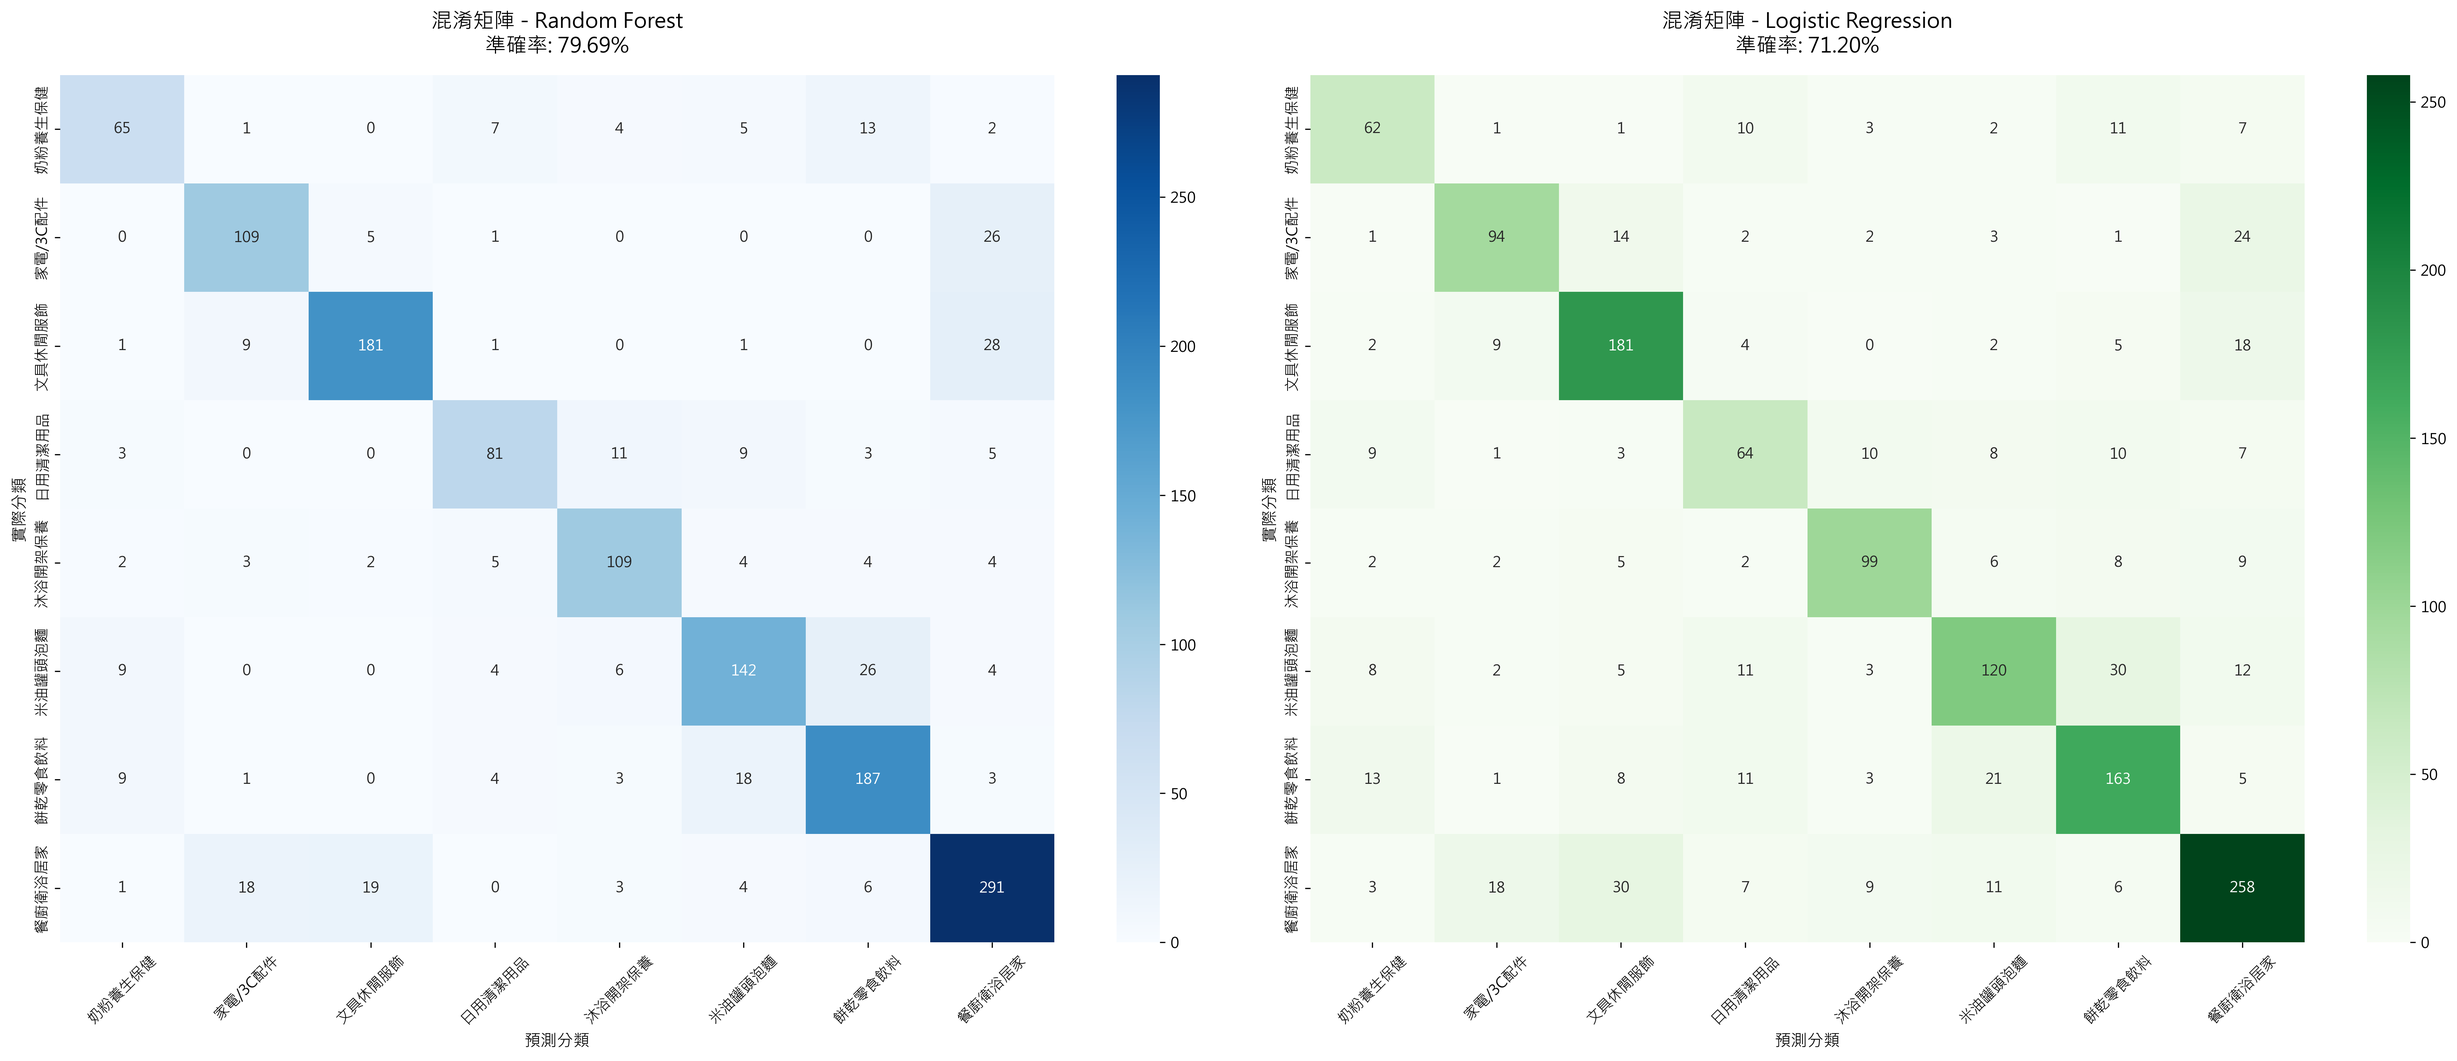
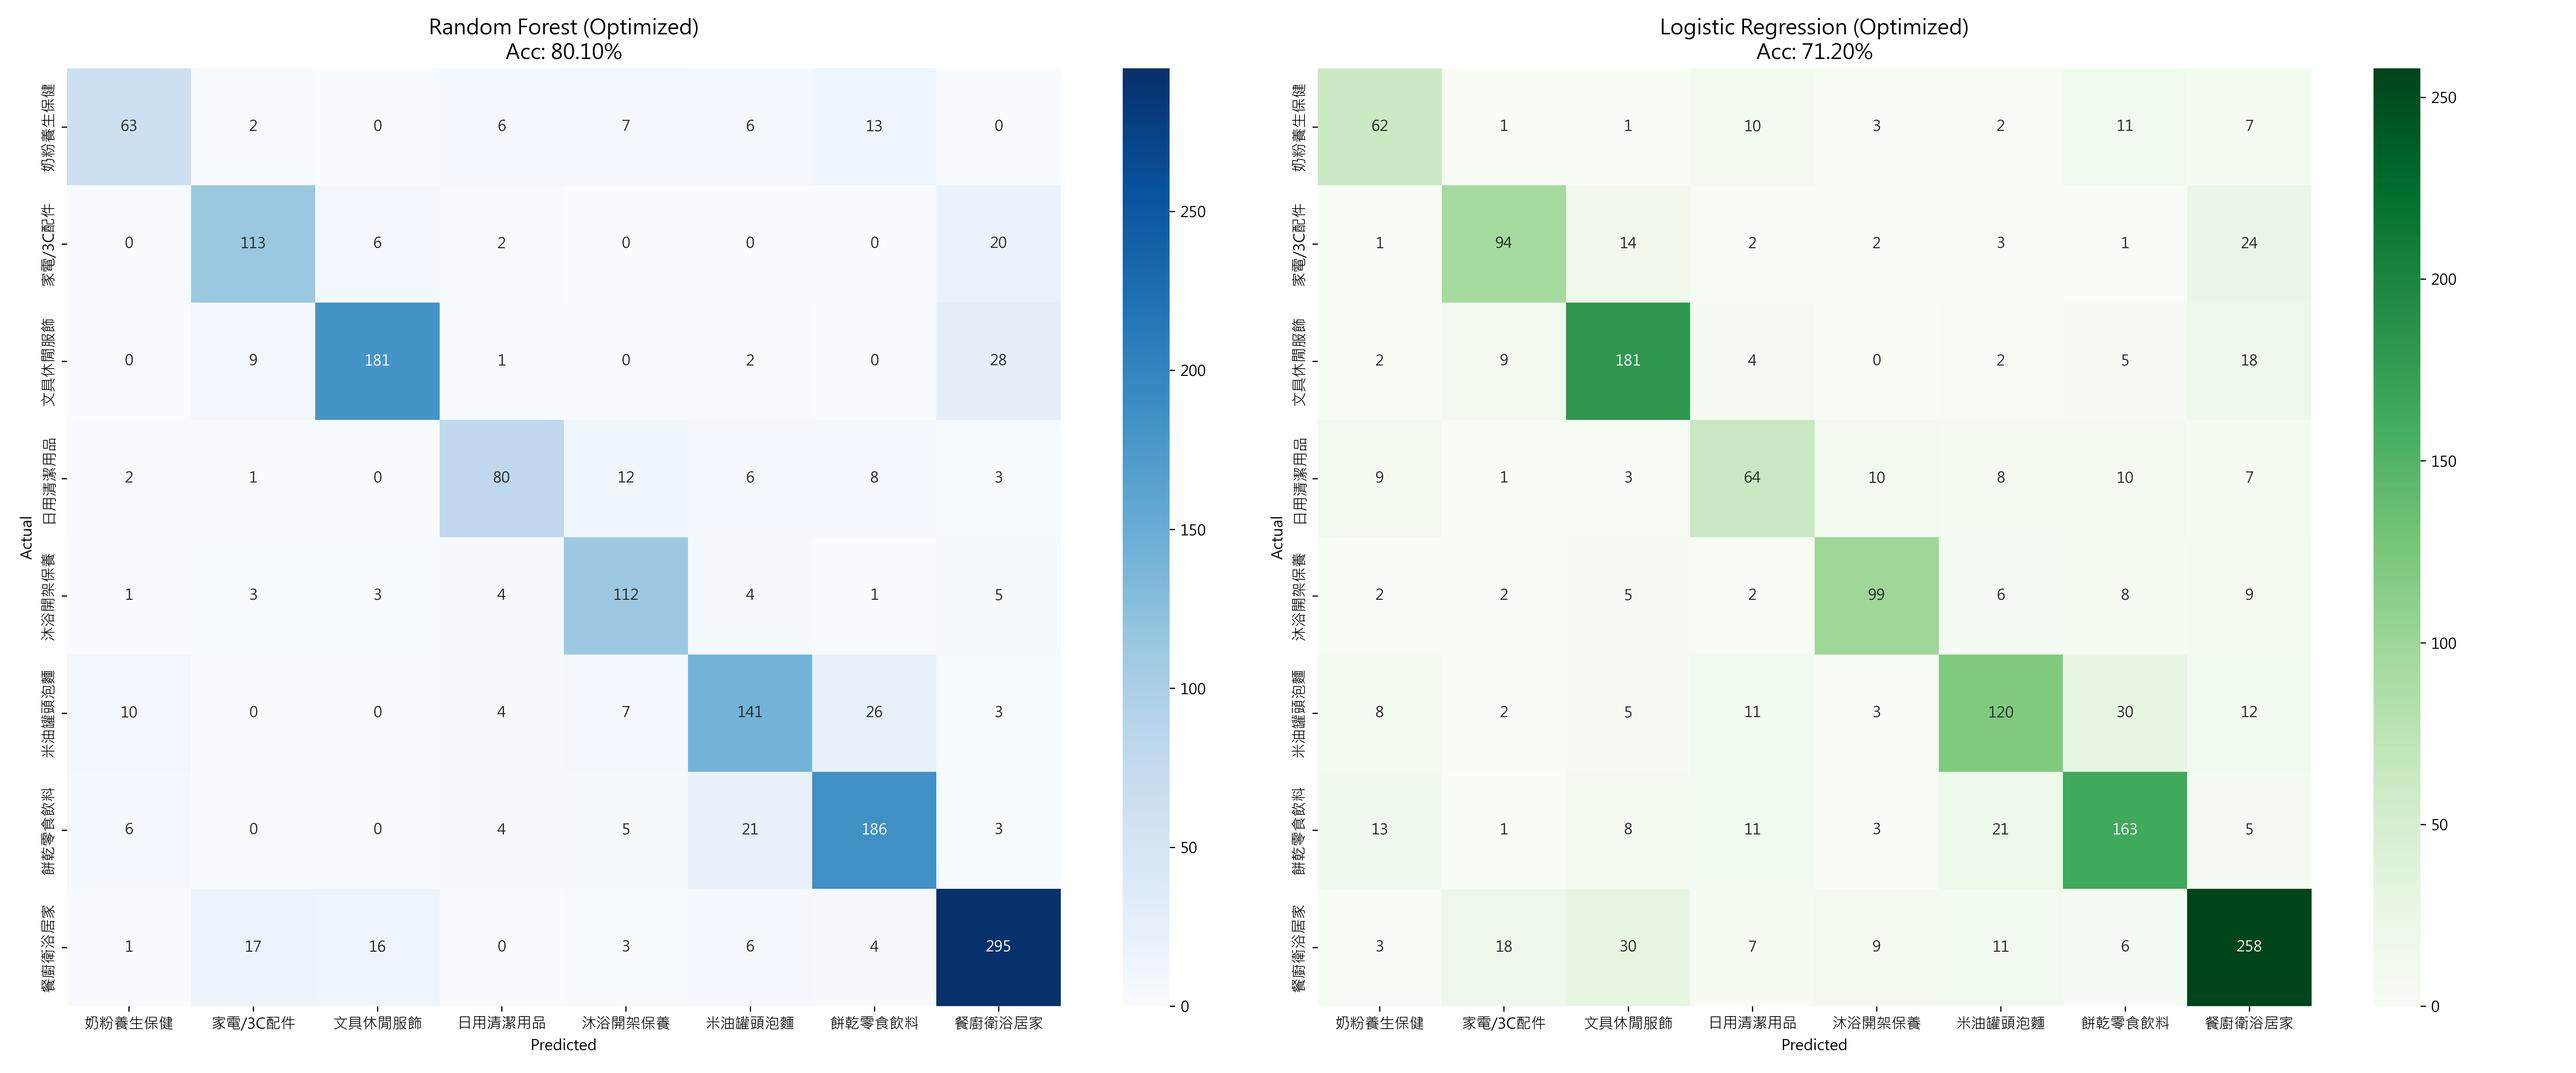
feat: 更新傳統模型訓練結果圖表，優化混淆矩陣與性能時間權衡圖

diff --git a/src/semester-project/07_train_traditional_model.py b/src/semester-project/07_train_traditional_model.py
@@ -8,7 +8,7 @@ import time
 from imblearn.over_sampling import SMOTE
 from collections import Counter
 
-from sklearn.model_selection import train_test_split
+from sklearn.model_selection import train_test_split, RandomizedSearchCV
 from sklearn.ensemble import RandomForestClassifier
 from sklearn.linear_model import LogisticRegression
 from sklearn.metrics import classification_report, accuracy_score, confusion_matrix
@@ -20,7 +20,6 @@ import matplotlib.font_manager as fm
 from utils.cross_platform_config import set_matplotlib_font
 
 font_name = set_matplotlib_font()
-
 print("使用字型：", font_name)
 
 plt.rcParams["font.family"] = "sans-serif"
@@ -30,7 +29,7 @@ plt.rcParams["axes.unicode_minus"] = False
 
 def main():
     print("=" * 70)
-    print("傳統機器學習模型訓練 (Random Forest & Logistic Regression)")
+    print("傳統機器學習模型訓練 (進階優化版 - Hyperparameter Tuning)")
     print("=" * 70)
 
     # 建立輸出資料夾
@@ -56,89 +55,115 @@ def main():
 
     print(f"特徵維度: {X.shape}")
     print(f"樣本數: {X.shape[0]}")
-    print(f"類別數: {len(le.classes_)}")
 
     # ==================== 2. 分割訓練/測試集 ====================
-    print("\n" + "=" * 70)
-    print("步驟 2: 分割訓練/測試集")
-    print("=" * 70)
+    print("\n步驟 2: 分割訓練/測試集")
 
     X_train, X_test, y_train, y_test = train_test_split(
         X, y, test_size=0.2, stratify=y, random_state=42
     )
 
-    print(f"訓練集: {len(y_train)} 筆 ({len(y_train)/len(y)*100:.1f}%)")
-    print(f"測試集: {len(y_test)} 筆 ({len(y_test)/len(y)*100:.1f}%)")
-
     # ==================== 3. SMOTE 過採樣 ====================
     print("\n步驟 3: SMOTE 過採樣")
-    print("-" * 70)
 
-    print("原始訓練集類別分佈：")
-    print(Counter(y_train))
-
+    # 注意: 這裡只對訓練集做 SMOTE，測試集必須保持純淨
     smote = SMOTE(random_state=42, k_neighbors=3)
     X_train_smote, y_train_smote = smote.fit_resample(X_train, y_train)
 
-    # 排序稀疏矩陣索引
     if sparse.issparse(X_train_smote):
         X_train_smote.sort_indices()
     if sparse.issparse(X_test):
         X_test.sort_indices()
 
-    print(f"SMOTE 後訓練集：{X_train_smote.shape}")
-    print("SMOTE 後類別分佈：")
-    print(Counter(y_train_smote))
+    print(f"SMOTE 後訓練集樣本數: {X_train_smote.shape[0]}")
 
-    # ==================== 4. 訓練傳統模型 ====================
-    print("\n" + "=" * 70)
-    print("步驟 4: 訓練傳統模型")
-    print("=" * 70)
+    # ==================== 4. 定義參數網格與模型 ====================
+    print("\n步驟 4: 定義超參數搜尋空間")
 
-    models = {
-        "Random Forest": RandomForestClassifier(
-            n_estimators=100, random_state=42, n_jobs=-1
-        ),
-        "Logistic Regression": LogisticRegression(
-            max_iter=1000, random_state=42, n_jobs=-1
-        ),
+    # Random Forest 參數空間
+    rf_params = {
+        "n_estimators": [100, 300, 500],
+        "max_depth": [None, 20, 50, 100],
+        "min_samples_split": [2, 5, 10],
+        "min_samples_leaf": [1, 2, 4],
+        "max_features": ["sqrt", "log2"],
     }
+
+    # Logistic Regression 參數空間
+    lr_params = {
+        "C": [0.01, 0.1, 1, 10, 100],  # 正則化強度
+        "solver": ["liblinear", "lbfgs"],  # 優化演算法
+        "max_iter": [1000],  # 確保收斂
+    }
+
+    models_config = {
+        "Random Forest": {
+            "model": RandomForestClassifier(random_state=42, n_jobs=-1),
+            "params": rf_params,
+            "n_iter": 10,  # 隨機嘗試 10 種組合
+        },
+        "Logistic Regression": {
+            "model": LogisticRegression(random_state=42, n_jobs=-1),
+            "params": lr_params,
+            "n_iter": 5,  # 隨機嘗試 5 種組合
+        },
+    }
+
+    # ==================== 5. 執行優化訓練 ====================
+    print("\n" + "=" * 70)
+    print("步驟 5: 開始 RandomizedSearchCV 優化訓練")
+    print("=" * 70)
 
     results = {}
     training_times = {}
-    predictions = {}  # 儲存預測結果
+    predictions = {}
+    best_estimators = {}  # 儲存訓練好的最佳模型物件
 
-    for name, model in models.items():
-        print(f"\n{'='*70}")
-        print(f"訓練 {name}...")
-        print(f"{'='*70}")
+    for name, config in models_config.items():
+        print(f"\n正在優化訓練: {name} ...")
         start_time = time.time()
 
-        model.fit(X_train_smote, y_train_smote)
-        training_times[name] = time.time() - start_time
-
-        y_pred = model.predict(X_test)
-        accuracy = accuracy_score(y_test, y_pred)
-        results[name] = accuracy
-        predictions[name] = y_pred
-
-        print(f"準確率: {accuracy:.2%}")
-        print(f"訓練時間: {training_times[name]:.2f} 秒")
-        print("\n分類報告:")
-        print(
-            classification_report(
-                y_test, y_pred, target_names=le.classes_, zero_division=0
-            )
+        # 建立隨機搜尋物件
+        search = RandomizedSearchCV(
+            estimator=config["model"],
+            param_distributions=config["params"],
+            n_iter=config["n_iter"],
+            scoring="accuracy",
+            cv=3,  # 3-Fold 交叉驗證
+            verbose=1,
+            random_state=42,
+            n_jobs=-1,  # 使用所有 CPU 核心
         )
 
-    # ==================== 5. 儲存結果 ====================
-    print("\n" + "=" * 70)
-    print("步驟 5: 儲存訓練結果")
-    print("=" * 70)
+        # 開始擬合
+        search.fit(X_train_smote, y_train_smote)
 
-    # 儲存模型與結果
+        # 記錄時間
+        elapsed_time = time.time() - start_time
+        training_times[name] = elapsed_time
+
+        # 取得最佳模型
+        best_model = search.best_estimator_
+        best_estimators[name] = best_model
+
+        # 預測
+        y_pred = best_model.predict(X_test)
+        acc = accuracy_score(y_test, y_pred)
+
+        results[name] = acc
+        predictions[name] = y_pred
+
+        print(f" -> 最佳參數: {search.best_params_}")
+        print(f" -> 測試集準確率: {acc:.2%}")
+        print(f" -> 耗時: {elapsed_time:.2f} 秒")
+
+    # ==================== 6. 儲存結果 ====================
+    print("\n" + "=" * 70)
+    print("步驟 6: 儲存訓練結果")
+
+    # 這裡要注意: 必須儲存 best_estimators (已經 fit 過的最佳模型)
     traditional_results = {
-        "models": models,
+        "models": best_estimators,  # 儲存最佳模型實體
         "results": results,
         "training_times": training_times,
         "predictions": predictions,
@@ -149,19 +174,19 @@ def main():
         "label_encoder": le,
     }
 
+    # 覆蓋舊檔案，確保後續比較程式讀到的是最強版本
     model_file = "output/models/traditional_models.pkl"
     with open(model_file, "wb") as f:
         pickle.dump(traditional_results, f)
-    print(f"傳統模型結果已儲存到 {model_file}")
+    print(f"優化後的模型結果已儲存到 {model_file}")
 
-    # ==================== 6. 生成混淆矩陣 ====================
-    print("\n生成傳統模型混淆矩陣...")
+    # ==================== 7. 生成混淆矩陣 ====================
+    print("\n步驟 7: 更新混淆矩陣圖表")
 
     fig, axes = plt.subplots(1, 2, figsize=(24, 10))
 
     for idx, (name, y_pred) in enumerate(predictions.items()):
         cm = confusion_matrix(y_test, y_pred)
-
         sns.heatmap(
             cm,
             annot=True,
@@ -172,36 +197,14 @@ def main():
             ax=axes[idx],
         )
         axes[idx].set_title(
-            f"混淆矩陣 - {name}\n準確率: {results[name]:.2%}",
-            fontsize=14,
-            pad=15,
+            f"{name} (Optimized)\nAcc: {results[name]:.2%}", fontsize=14
         )
-        axes[idx].set_xlabel("預測分類", fontsize=11)
-        axes[idx].set_ylabel("實際分類", fontsize=11)
-        axes[idx].tick_params(axis="x", rotation=45)
+        axes[idx].set_xlabel("Predicted")
+        axes[idx].set_ylabel("Actual")
 
     plt.tight_layout()
-    plt.savefig(
-        "output/result_images/traditional_confusion_matrices.png",
-        dpi=300,
-        bbox_inches="tight",
-    )
-    print("混淆矩陣已儲存到 output/result_images/traditional_confusion_matrices.png")
-    plt.close()
-
-    # ==================== 7. 輸出摘要 ====================
-    print("\n" + "=" * 70)
-    print("訓練完成 - 結果摘要")
-    print("=" * 70)
-
-    for name in models.keys():
-        print(f"\n{name}:")
-        print(f"  準確率: {results[name]:.2%}")
-        print(f"  訓練時間: {training_times[name]:.2f} 秒")
-
-    print("\n生成的檔案:")
-    print(f"  - {model_file} (模型與結果)")
-    print("  - output/result_images/traditional_confusion_matrices.png (混淆矩陣)")
+    plt.savefig("output/result_images/traditional_confusion_matrices.png", dpi=300)
+    print("圖表已更新。")
 
 
 if __name__ == "__main__":
